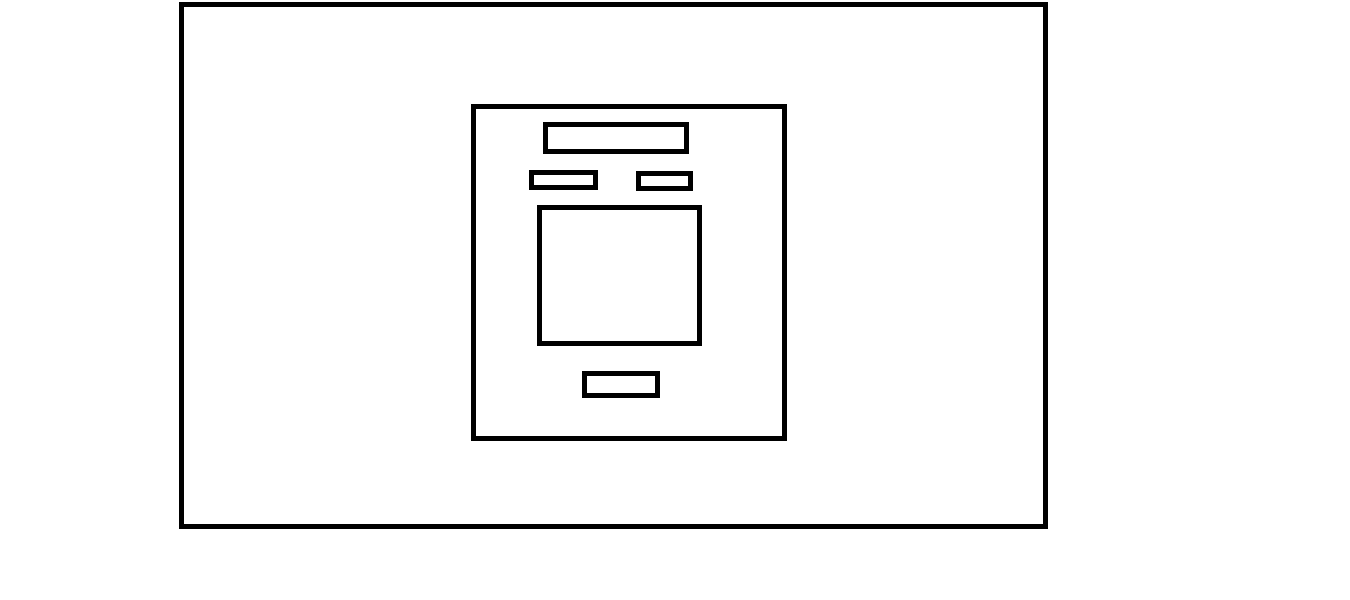
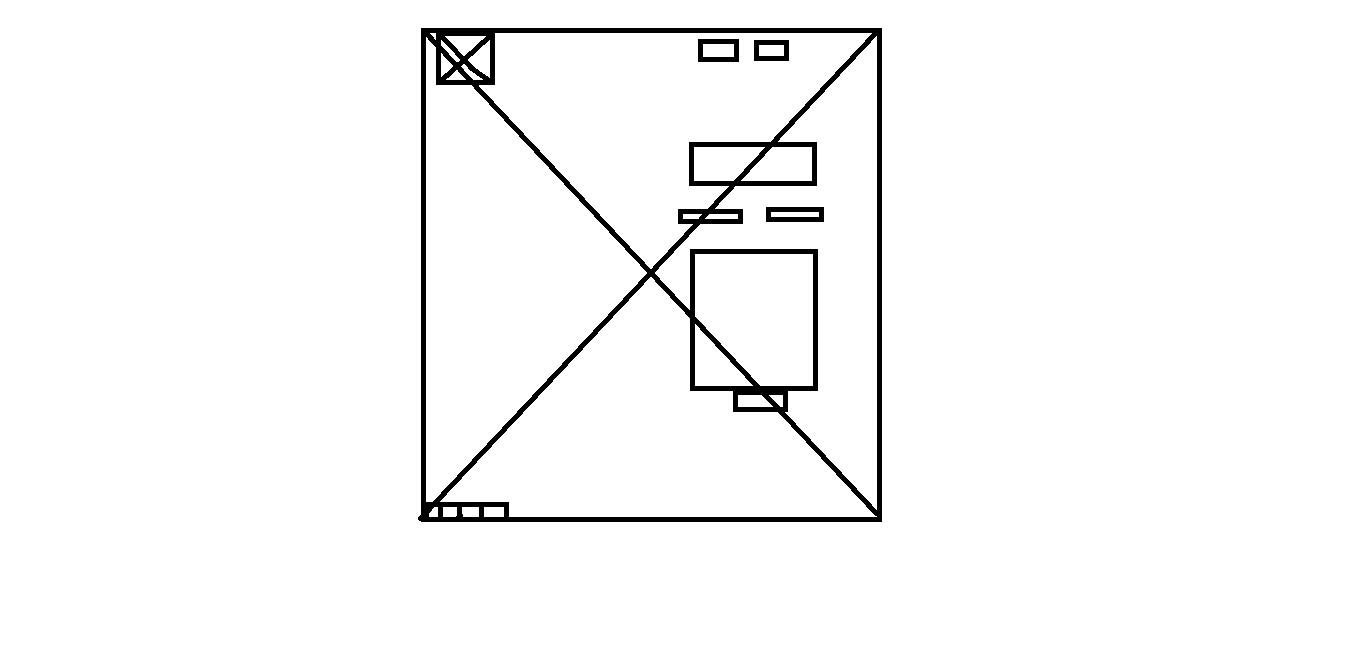
slutet

Changed region(s): [[0.1244, 0.0, 0.7778, 0.9], [0.4356, 0.45, 0.4667, 0.51]]

diff --git a/projects/slutprojekt/css/kontaktformularkaffe.css b/projects/slutprojekt/css/kontaktformularkaffe.css
@@ -1,15 +1,23 @@
 body {
-    background-color: burlywood;
+    background-image: url(../images/jessica-lewis-562515-unsplash.jpg);
+    background-repeat: repeat;
+    
+}
+header {
     display: flex;
-    justify-content: center;
+    justify-content: space-between;
+    height: 100px;
+    width: 100%;
+}
+img.logo {
+    height: 100px;
+    width: 100px;
 }
 main {
-    background-color:burlywood;
-    margin-top: 100px;
+    margin-left: auto;
+    margin-bottom: 315px;
     width: 500px;
-    height: 500px;
-    border-style: solid;
-    border-width: 1px;
+    height: 180px;
 }
 h1 {
   display: flex;
@@ -18,16 +26,70 @@ h1 {
 
 input {
     margin-left: 50px;
+    background: transparent;
+    
+    
+    
 }
 textarea {
     display: flex;
     margin-left: 110px;
-    margin-top: 25px;
+    margin-top: 15px;
     resize: none;
     width: 300px;
     height: 200px;
+    background: transparent;
+    
 }
 button {
     margin-left: 230px;
-    margin-top: 50px;
+    margin-top: 20px;
+    margin-top: auto;
+}
+
+nav.meny {
+    display: flex;
+    width: 40%;
+}
+nav a {
+    text-decoration: none;
+    color: black;
+    font-size: 14px;
+    text-transform: uppercase;
+    background: transparent;
+    padding: 10px;
+    padding-bottom: 10px;
+    border-radius: 10px;
+    border: 1px solid black;
+}
+ul {
+    display: flex;
+    flex-direction: row;
+    list-style: none;
+}
+li {
+    margin: 10px;
+}
+    
+button.fyra {
+    text-decoration: none;
+    color: white;
+    font-size: 15px;
+    text-transform: uppercase;
+    background: #f73600;;
+    padding: 10px;
+    padding-bottom: 10px;
+    border-radius: 3px;
+    border: 1px solid #f73600;  
+}
+
+nav a:hover {
+background: chocolate;
+color: black;
+}
+::placeholder {
+    color: black;
+}
+footer {
+    height: 26px;
 }

diff --git a/projects/slutprojekt/subpages/kontaktformularkaffe.html b/projects/slutprojekt/subpages/kontaktformularkaffe.html
@@ -6,6 +6,9 @@
     </head>
     <body>
        <header>
+           <div>
+               <img src="../images/288px-Coffee_cup_icon.svg.png" class="logo" alt="">
+           </div>
             <nav class="meny">
                 <ul>
                     <li><a href="../index.html">hem</a></li>
@@ -13,7 +16,6 @@
                 </ul>
             </nav>
        </header>
-       
         <main>
             <h1>Kontakta oss</h1>
             <form>
@@ -21,8 +23,14 @@
             <input type="text" name="epost" placeholder="E-postadress">
             <textarea name="-" placeholder="skriv ditt meddelande här..."></textarea>
             <button class="fyra">Skicka
-            </button>
+            </button >
             </form>
         </main>
+        <footer>
+            <img src="../images/facebook.png" alt="">
+            <img src="../images/instagram%20(1).png" alt="">
+            <img src="../images/twitter.png" alt="">
+            <img src="../images/youtube.png" alt="">
+        </footer>
     </body>
 </html>

diff --git a/projects/slutprojekt/index.html b/projects/slutprojekt/index.html
@@ -39,7 +39,11 @@
         <p class="tredje">Jag kan säga att från personlig erfarenhet så kan kaffe hjälpa mig till nästan allt jag ska göra som jag känner att jag behöver en boost till. Det kan vara att Sitta i skolan och hålla focus, prestera på CS, och allt möjligt. Så som slutsats så kan kaffe hjälpa dig med allt förutom att förbättra sömnen</p>
         </section>
     </section>
-    <footer>
-    </footer>
+<footer>
+      <img src="images/facebook.png" alt="">
+      <img src="images/instagram%20(1).png" alt="">
+      <img src="images/twitter.png" alt="">
+      <img src="images/youtube.png" alt="">
+</footer>
     </body>
 </html>

diff --git a/projects/slutprojekt/css/index.css b/projects/slutprojekt/css/index.css
@@ -127,5 +127,5 @@ p {
     font-size: 25px;
 }
 footer {
-    
+    height: 26px;
 }
